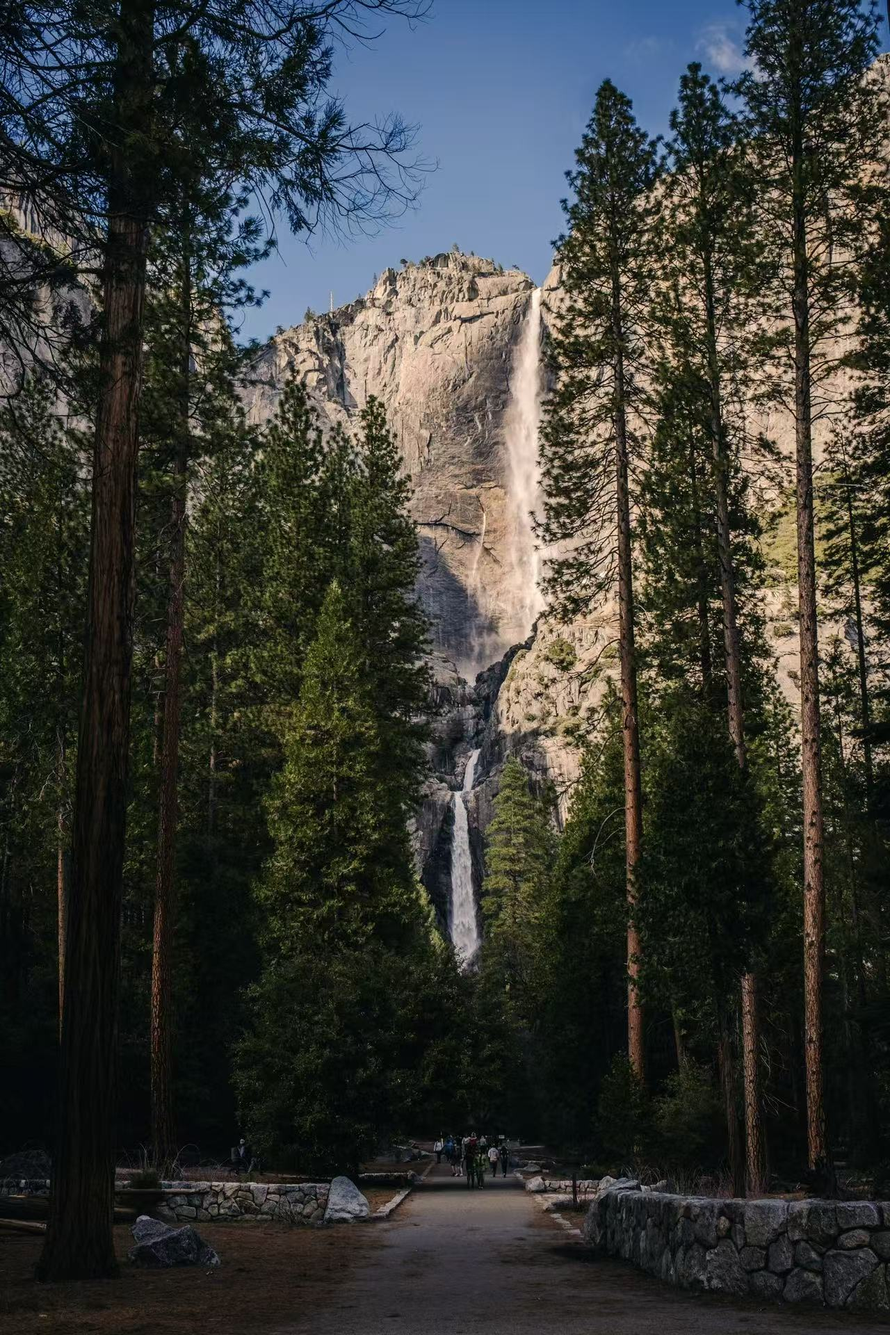
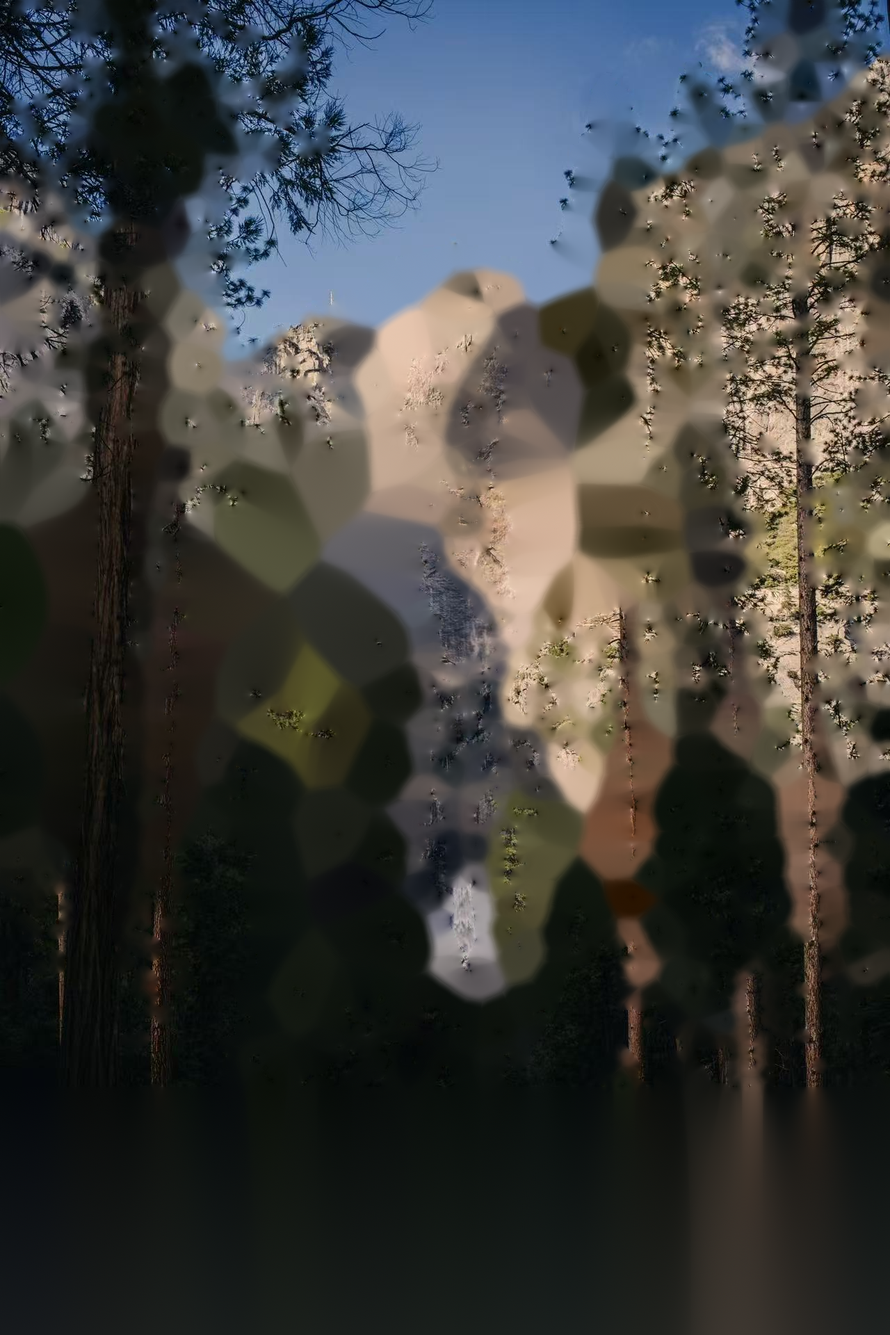
fix(web): reconstruct background so it excludes extracted objects
The opaque plate previously contained the very objects extracted in front of it,
so parallax revealed a ghost duplicate. Now the background is rebuilt with the
union of object masks removed and inpainted (OpenCV Telea, dilated generation
mask per spec §17.10). Extracted layers keep original pixels; the plate is marked
provenance visiblePixels=mixed / completionProvider=opencv-telea-cpu.

Classical inpaint over large regions is rough, but the reconstructed area stays
mostly hidden behind the cutouts and the small reveal budget; generative
inpainting (FLUX) in Milestone 7 will make revealed regions clean.

diff --git a/scripts/gen-photo-scene.py b/scripts/gen-photo-scene.py
@@ -1,21 +1,29 @@
 #!/usr/bin/env python3
-"""Heuristic CPU layer separation for a real photograph (no AI / no API).
+"""Heuristic CPU layer separation + background reconstruction (no AI / no API).
 
-Splits a photo into a few depth layers using colour + position cues, keeping the
-ORIGINAL pixels (we only compute an alpha mask per layer). An opaque full-frame
-"plate" sits behind everything so parallax never exposes a hole — revealed
-regions show the same original pixels. This is a stand-in for the Milestone 7 AI
-pipeline, which will do true semantic separation.
+Splits a photo into depth layers using colour + position cues, then RECONSTRUCTS
+the background so it does NOT contain the extracted objects: the union of all
+object masks is dilated into a "generation mask" and filled with OpenCV
+inpainting. This mirrors the Milestone 7 rule — "reconstruct the background
+hidden behind extracted objects" — using classical CV instead of a generative
+model (which is imperfect for large regions; generative inpainting is M7).
+
+Two-mask strategy (spec §17.10):
+  * generation mask  — dilated union of objects; the region we inpaint.
+  * composite mask   — per-object feathered mask; controls the cutout's alpha.
+
+Extracted-object layers keep the ORIGINAL pixels. Only the background plate
+contains generated (inpainted) pixels.
 
 Usage:
     python scripts/gen-photo-scene.py <source.jpg> <scene-id>
-    # e.g. python scripts/gen-photo-scene.py apps/web/public/demo-photos/854.jpg yosemite-falls
 """
 from __future__ import annotations
 
 import os
 import sys
 
+import cv2
 import numpy as np
 from PIL import Image, ImageFilter
 
@@ -23,7 +31,6 @@ ROOT = os.path.dirname(os.path.dirname(os.path.abspath(__file__)))
 
 
 def feather(mask01: np.ndarray, radius: float) -> np.ndarray:
-    """Feather a 0..1 mask by Gaussian-blurring its alpha."""
     a = Image.fromarray((np.clip(mask01, 0, 1) * 255).astype(np.uint8), mode="L")
     a = a.filter(ImageFilter.GaussianBlur(radius))
     return np.asarray(a).astype(float) / 255.0
@@ -32,12 +39,11 @@ def feather(mask01: np.ndarray, radius: float) -> np.ndarray:
 def save_layer(rgb: np.ndarray, mask01: np.ndarray, path: str) -> None:
     h, w = mask01.shape
     out = np.zeros((h, w, 4), dtype=np.uint8)
-    out[..., :3] = rgb.astype(np.uint8)
+    out[..., :3] = np.clip(rgb, 0, 255).astype(np.uint8)
     out[..., 3] = (np.clip(mask01, 0, 1) * 255).astype(np.uint8)
     os.makedirs(os.path.dirname(path), exist_ok=True)
     Image.fromarray(out, "RGBA").save(path)
-    coverage = float((mask01 > 0.02).mean())
-    print(f"  wrote {os.path.relpath(path, ROOT)}  coverage={coverage:.0%}")
+    print(f"  wrote {os.path.relpath(path, ROOT)}  coverage={float((mask01 > 0.02).mean()):.0%}")
 
 
 def main() -> None:
@@ -53,45 +59,57 @@ def main() -> None:
     mx = np.maximum(np.maximum(R, G), B)
     mn = np.minimum(np.minimum(R, G), B)
     sat = (mx - mn) / (mx + 1e-6)
-
     yy = np.linspace(0, 1, H).reshape(H, 1)
     xx = np.linspace(0, 1, W).reshape(1, W)
+    diag = max(W, H)
 
     print(f"Separating {src} ({W}x{H}) -> scenes/{scene_id}")
 
-    # --- Foliage: green-dominant pines framing the scene -------------------
-    foliage = ((G > R * 1.03) & (G > B * 1.02) & (G > 35) & (lum < 175)).astype(float)
-    foliage = feather(foliage, radius=max(W, H) * 0.004)
+    # --- Object masks (boolean cores) --------------------------------------
+    foliage_core = (G > R * 1.03) & (G > B * 1.02) & (G > 35) & (lum < 175)
+    water_core = (
+        (lum > 165) & (sat < 0.20)
+        & (xx > 0.38) & (xx < 0.72) & (yy > 0.14) & (yy < 0.66)
+    )
+    fg_core = (yy > 0.82) * np.ones((1, W), dtype=bool)
 
-    # --- Waterfall / bright low-saturation vertical column ------------------
-    water = (
-        (lum > 165)
-        & (sat < 0.20)
-        & (xx > 0.38)
-        & (xx < 0.72)
-        & (yy > 0.14)
-        & (yy < 0.66)
-    ).astype(float)
-    water = feather(water, radius=max(W, H) * 0.006)
+    # Composite (feathered) masks → alpha for each extracted layer's cutout.
+    foliage = feather(foliage_core.astype(float), diag * 0.004)
+    water = feather(water_core.astype(float), diag * 0.006)
+    foreground = feather(np.clip((yy - 0.80) / 0.06, 0, 1) * np.ones((1, W)), diag * 0.006)
 
-    # --- Foreground: the path / walls / people along the bottom ------------
-    fg_band = np.clip((yy - 0.80) / 0.06, 0, 1) * np.ones((1, W))
-    foreground = feather(fg_band, radius=max(W, H) * 0.006)
+    # --- Background reconstruction -----------------------------------------
+    # generation mask = dilated union of all extracted objects (removes halos too).
+    union = (foliage_core | water_core | fg_core).astype(np.uint8) * 255
+    k = max(3, int(diag * 0.012)) | 1  # odd kernel size
+    kernel = cv2.getStructuringElement(cv2.MORPH_ELLIPSE, (k, k))
+    gen_mask = cv2.dilate(union, kernel, iterations=1)
 
-    # --- Plate: the whole original, opaque (safety net behind all) ---------
-    plate = np.ones((H, W), dtype=float)
+    bgr = cv2.cvtColor(np.clip(rgb, 0, 255).astype(np.uint8), cv2.COLOR_RGB2BGR)
+    inpaint_radius = max(4, int(diag * 0.01))
+    filled_bgr = cv2.inpaint(bgr, gen_mask, inpaint_radius, cv2.INPAINT_TELEA)
+    background = cv2.cvtColor(filled_bgr, cv2.COLOR_BGR2RGB).astype(float)
+    removed = float((gen_mask > 0).mean())
+    print(f"  reconstructed background: removed+inpainted {removed:.0%} of the frame")
 
-    save_layer(rgb, plate, os.path.join(out_dir, "layers", "plate.png"))
+    # --- Write layers -------------------------------------------------------
+    # Plate = the OBJECT-FREE reconstructed background (opaque).
+    save_layer(background, np.ones((H, W)), os.path.join(out_dir, "layers", "plate.png"))
+    # Extracted objects keep ORIGINAL pixels.
     save_layer(rgb, water, os.path.join(out_dir, "layers", "waterfall.png"))
     save_layer(rgb, foliage, os.path.join(out_dir, "layers", "foliage.png"))
     save_layer(rgb, foreground, os.path.join(out_dir, "layers", "foreground.png"))
 
-    # Background plate + normalized copy + preview for packaging/inspection.
-    Image.fromarray(rgb.astype(np.uint8), "RGB").save(os.path.join(out_dir, "background.png"))
+    # Packaging artefacts.
+    Image.fromarray(np.clip(background, 0, 255).astype(np.uint8), "RGB").save(
+        os.path.join(out_dir, "background.png")
+    )
     os.makedirs(os.path.join(out_dir, "original"), exist_ok=True)
     img.save(os.path.join(out_dir, "original", "normalized.png"))
+    os.makedirs(os.path.join(out_dir, "masks"), exist_ok=True)
+    Image.fromarray(gen_mask, "L").save(os.path.join(out_dir, "masks", "generation.png"))
     img.resize((max(1, W // 3), max(1, H // 3))).save(os.path.join(out_dir, "preview.png"))
-    print(f"  wrote background.png, original/normalized.png, preview.png ({W}x{H})")
+    print("  wrote background.png, original/normalized.png, masks/generation.png, preview.png")
     print("Done.")
 
 
